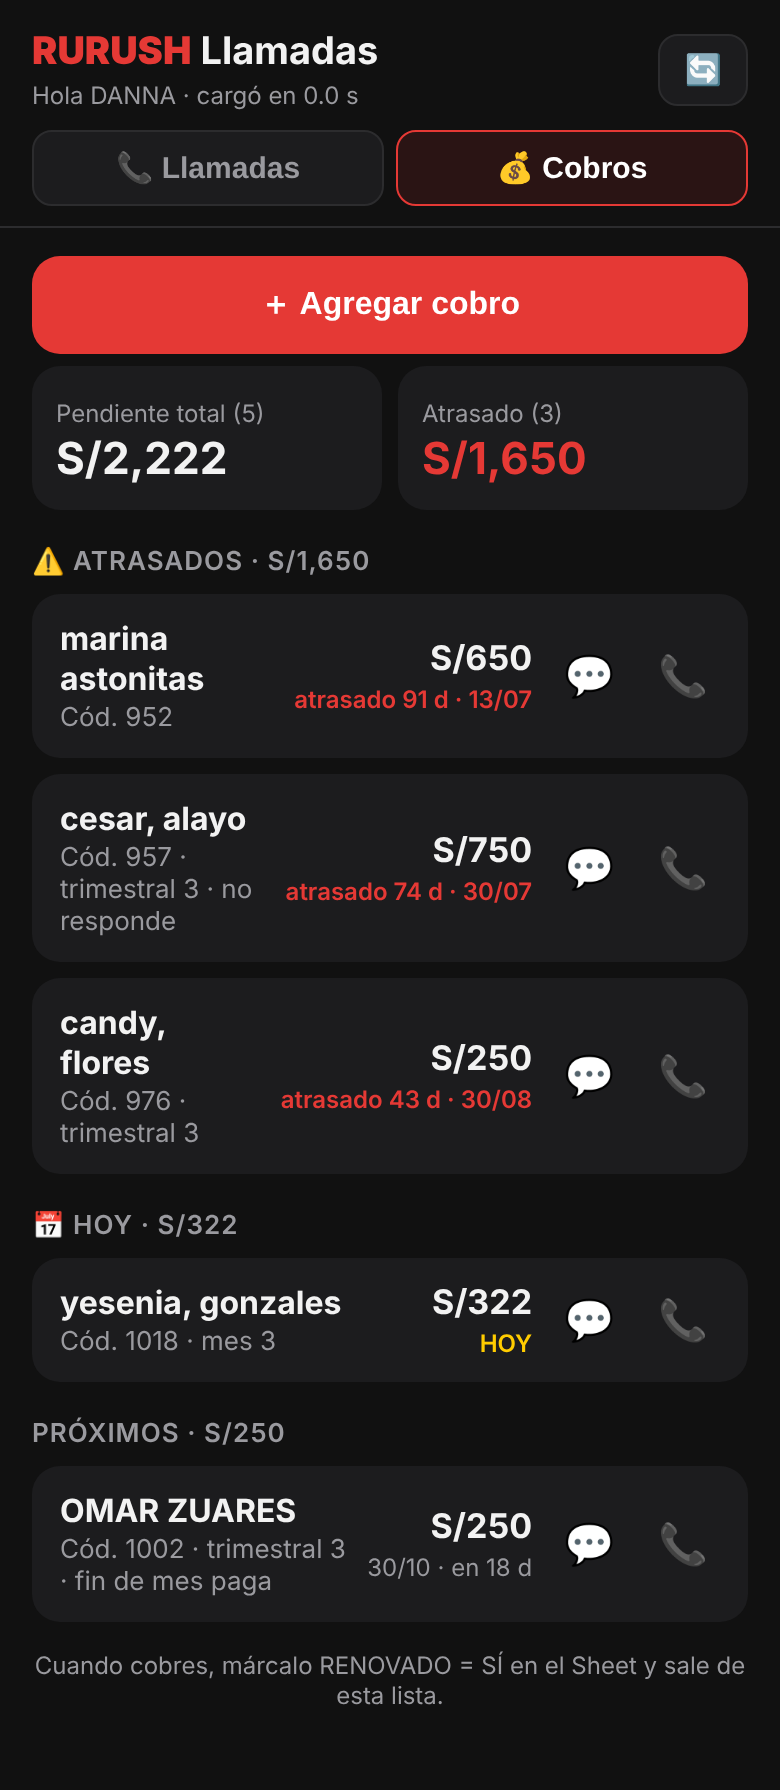
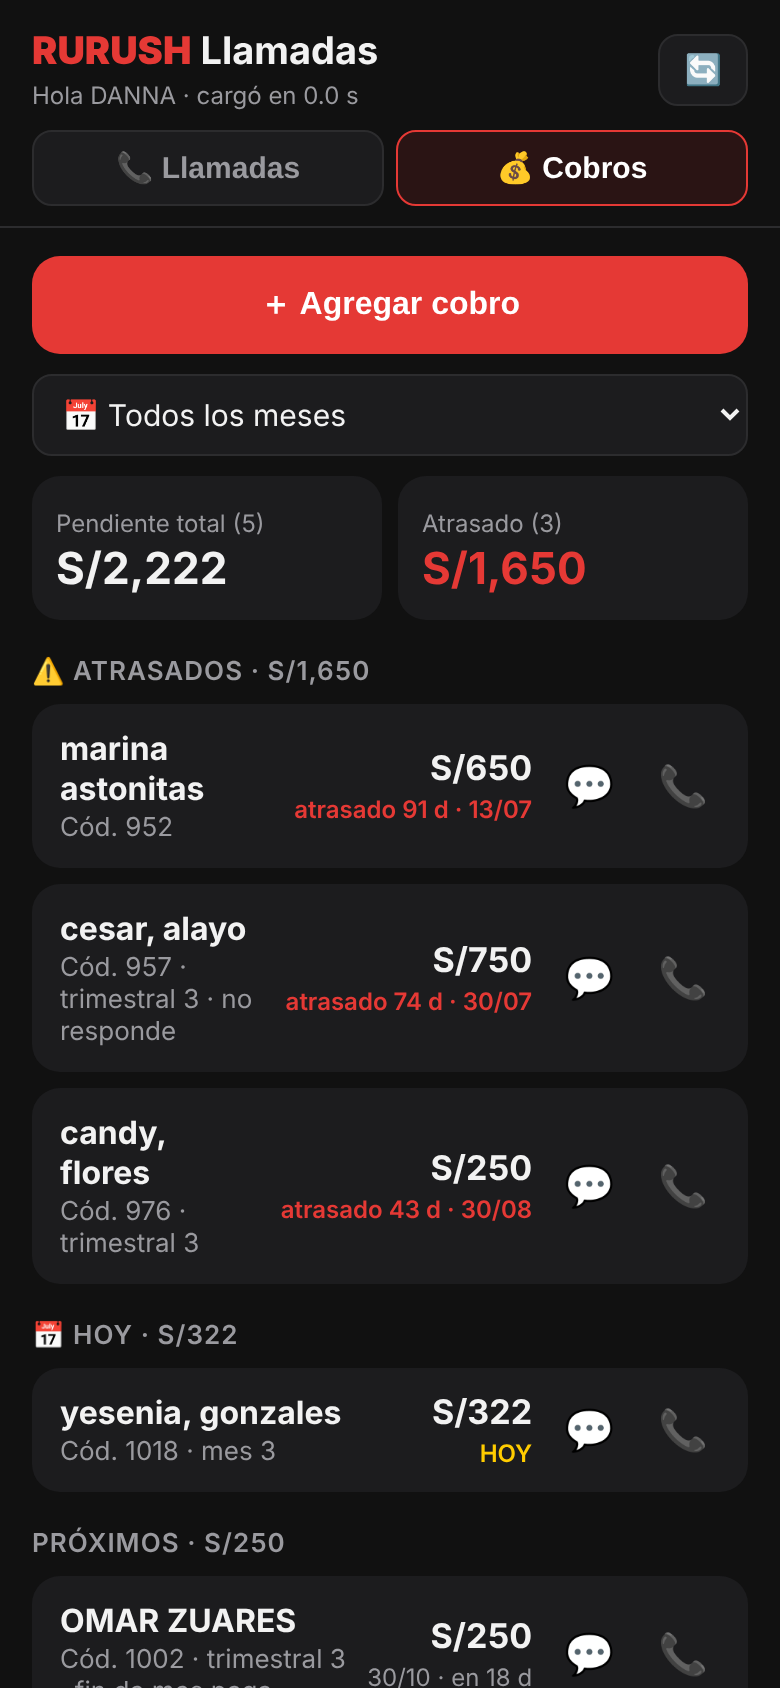
RURUSH Llamadas Cobros: selector de mes por fecha de cobro
Claude-Session: https://claude.ai/code/session_01S5oX8KX7EUgsAcX1G6oYng

diff --git a/rurush-sheet-scripts/Llamadas.html b/rurush-sheet-scripts/Llamadas.html
@@ -245,6 +245,10 @@ function revisarCola() { if (cola.length - idx <= 5) traer(false); }
 
 /* ---------- 💰 Cobros pendientes (pestaña "2. COLA RENOVAR" de VENTAS RETENCIÓN) ---------- */
 let VISTA = 'llamadas', cobros = null, cargandoCobros = false;
+// mes elegido en Cobros ("" = todos), se recuerda en el celular
+let MES_COBRO = (() => { try { return localStorage.getItem('rr_mescobro') || ''; } catch (e) { return ''; } })();
+const MESES = ['Enero', 'Febrero', 'Marzo', 'Abril', 'Mayo', 'Junio', 'Julio', 'Agosto', 'Septiembre', 'Octubre', 'Noviembre', 'Diciembre'];
+const nombreMes = (ym) => MESES[Number(ym.slice(5, 7)) - 1] + ' ' + ym.slice(0, 4);
 const soles = (n) => 'S/' + Math.round(n).toLocaleString('en-US');
 const fechaCorta = (iso) => iso ? iso.slice(8, 10) + '/' + iso.slice(5, 7) : '';
 function cambiarVista(v) {
@@ -272,16 +276,21 @@ function filaCobro(c) {
     <div><div class="mt">${soles(c.monto)}</div>${f}</div>${tel}</div>`;
 }
 function pintarCobros() {
-  const l = cobros.lista, atr = l.filter((c) => c.dias < 0), hoyL = l.filter((c) => c.dias === 0), prox = l.filter((c) => c.dias > 0);
+  const hoyMes = cobros.hoy.slice(0, 7);
+  const meses = [...new Set(cobros.lista.map((c) => c.fecha.slice(0, 7)).concat(hoyMes))].sort();
+  if (MES_COBRO && meses.indexOf(MES_COBRO) < 0) MES_COBRO = '';
+  const l = MES_COBRO ? cobros.lista.filter((c) => c.fecha.slice(0, 7) === MES_COBRO) : cobros.lista, atr = l.filter((c) => c.dias < 0), hoyL = l.filter((c) => c.dias === 0), prox = l.filter((c) => c.dias > 0);
   const suma = (a) => a.reduce((t, c) => t + c.monto, 0);
   const seccion = (t, a) => a.length ? `<h2>${t} · ${soles(suma(a))}</h2>${a.map(filaCobro).join('')}` : '';
   $('#main').innerHTML = `
     <button class="nuevo" id="nuevoCobro">＋ Agregar cobro</button>
-    <div class="totales"><div class="tot"><span>Pendiente total (${l.length})</span><b>${soles(suma(l))}</b></div>
+    <select class="bases" id="mesCobro" style="margin:4px 0 10px"><option value="">📅 Todos los meses</option>${meses.map((m) => `<option value="${m}" ${m === MES_COBRO ? 'selected' : ''}>📅 ${nombreMes(m)}${m === hoyMes ? ' (este mes)' : ''}</option>`).join('')}</select>
+    <div class="totales"><div class="tot"><span>Pendiente ${MES_COBRO ? 'del mes' : 'total'} (${l.length})</span><b>${soles(suma(l))}</b></div>
       <div class="tot atr"><span>Atrasado (${atr.length})</span><b>${soles(suma(atr))}</b></div></div>
-    ${l.length ? seccion('⚠ Atrasados', atr) + seccion('📅 Hoy', hoyL) + seccion('Próximos', prox) : '<div class="vacio">No tienes cobros pendientes 🎉</div>'}
+    ${l.length ? seccion('⚠ Atrasados', atr) + seccion('📅 Hoy', hoyL) + seccion('Próximos', prox) : `<div class="vacio">No tienes cobros pendientes${MES_COBRO ? ' en ' + nombreMes(MES_COBRO) : ''} 🎉</div>`}
     <div class="tip" style="text-align:center;margin-top:14px">Cuando cobres, márcalo RENOVADO = SÍ en el Sheet y sale de esta lista.</div>`;
   $('#nuevoCobro').onclick = formCobro;
+  $('#mesCobro').onchange = () => { MES_COBRO = $('#mesCobro').value; try { localStorage.setItem('rr_mescobro', MES_COBRO); } catch (e) {} pintarCobros(); };
 }
 function formCobro() {
   $('#main').innerHTML = `

diff --git a/rurush-sheet-scripts/INSTALAR.md b/rurush-sheet-scripts/INSTALAR.md
@@ -60,7 +60,8 @@ funcionando con la lectura de siempre.
 La app tiene dos pestañas arriba: **📞 Llamadas** y **💰 Cobros**. Cobros lee y escribe la pestaña
 **2. COLA RENOVAR** del Sheet *VENTAS RETENCIÓN 2026 V2*:
 - **Ver:** cada asesora ve SUS cobros (columna K = su nombre) con monto (N) y fecha de cobro (S),
-  separados en atrasados / hoy / próximos, con 💬 y 📞. Sale de la lista cuando RENOVADO? (O) = SÍ.
+  separados en atrasados / hoy / próximos, con 💬 y 📞, y un selector de mes (según la fecha de cobro;
+  el celular recuerda el último mes elegido). Sale de la lista cuando RENOVADO? (O) = SÍ.
 - **Agregar:** pone el **código** del socio (columna B) → la app muestra nombre, celular, plan, vence y
   asesor → pone **monto** y **fecha** → se escribe en la primera fila libre (B, N, S y una nota en T
   "📱 app ASESORA fecha"). Las fórmulas de la fila traen el resto, como cuando se escribe a mano.
